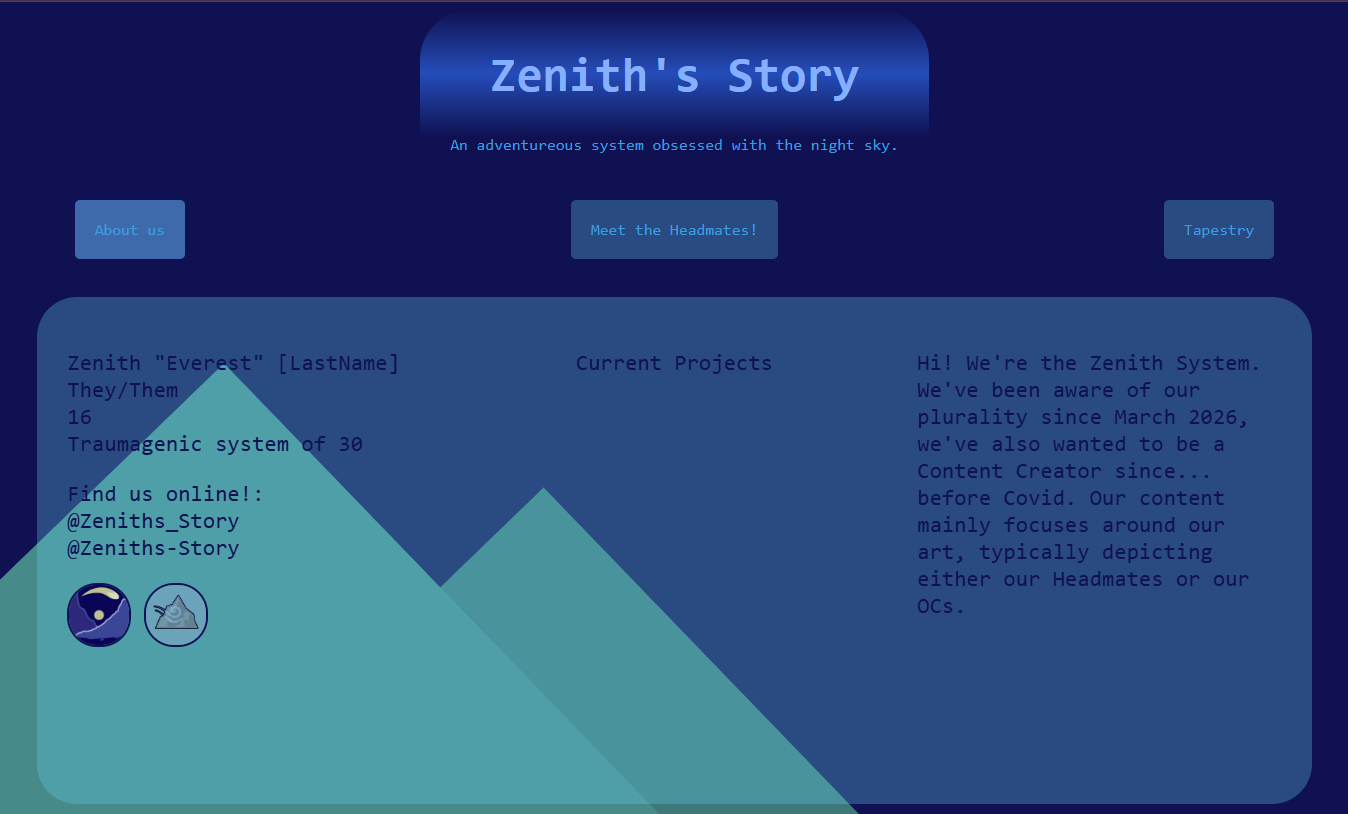
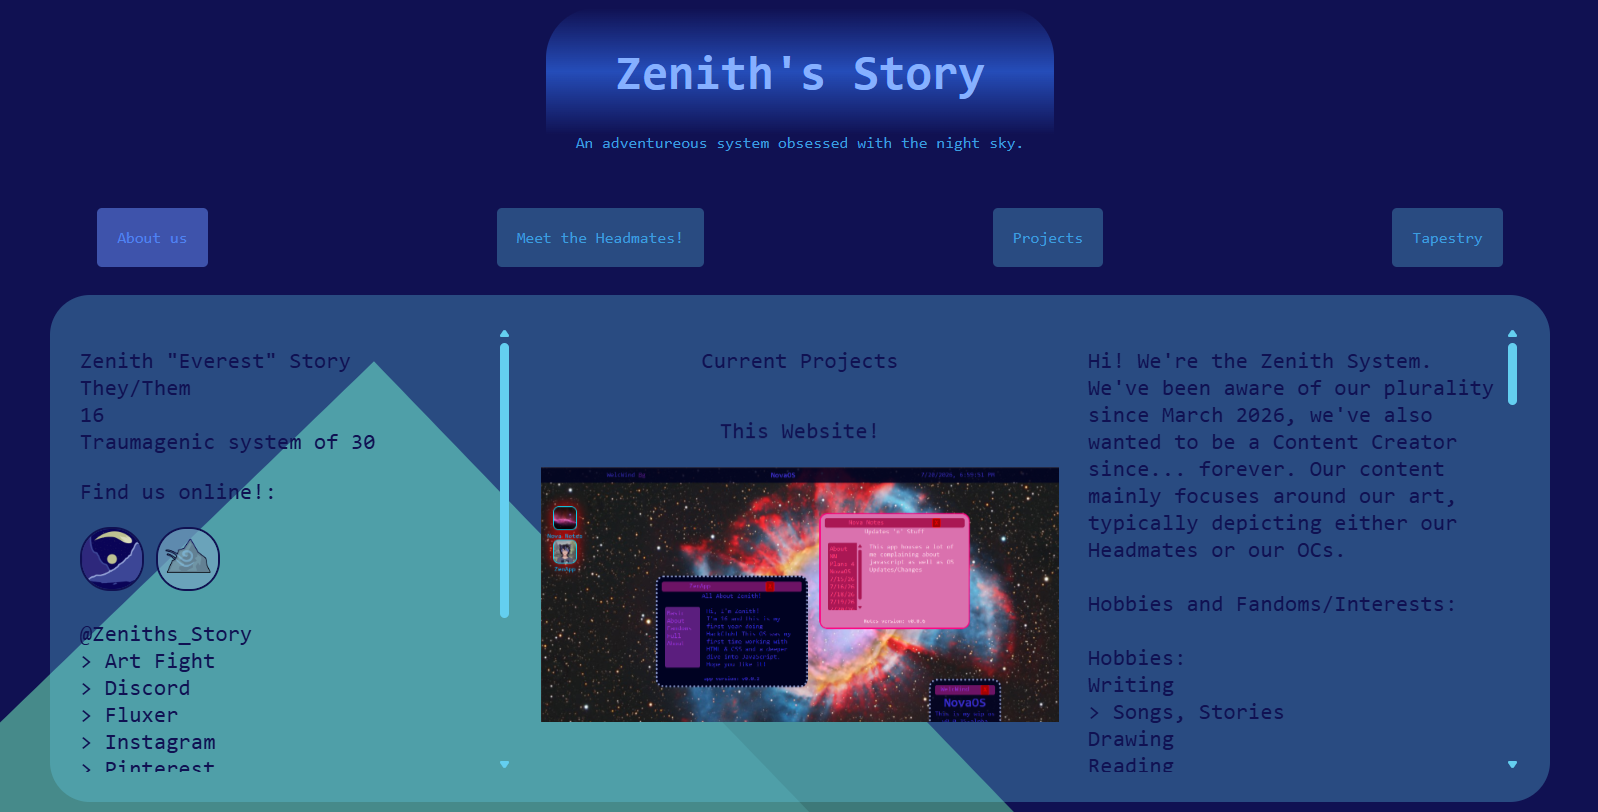
working on projects tab

diff --git a/script.js b/script.js
@@ -615,6 +615,11 @@ var projects = [
         projpic:`<img href="pics/zen-site.png">`,
         projtags:"current, 2026, HC, tech"
     },
+    {
+        projname:"NovaOS",
+        projpic:`<img href="pics/novaos.png">`,
+        projtags:"current, 2026, HC, tech"
+    },
 
 ]
 
